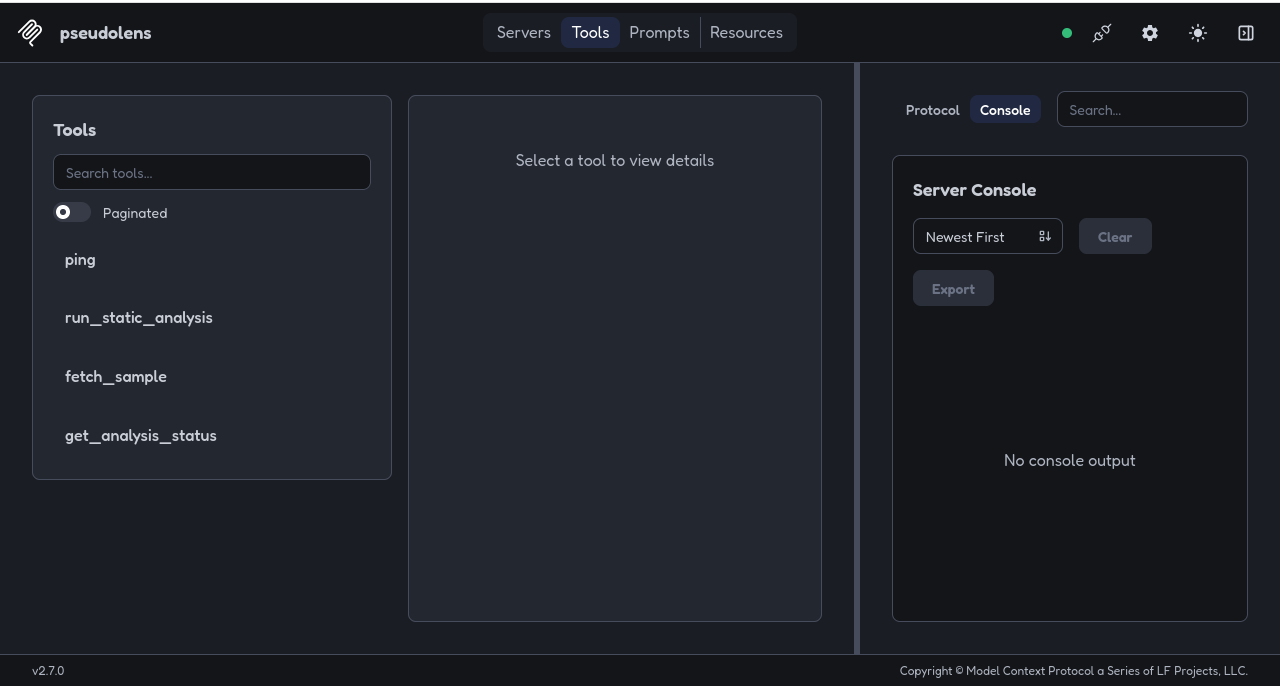
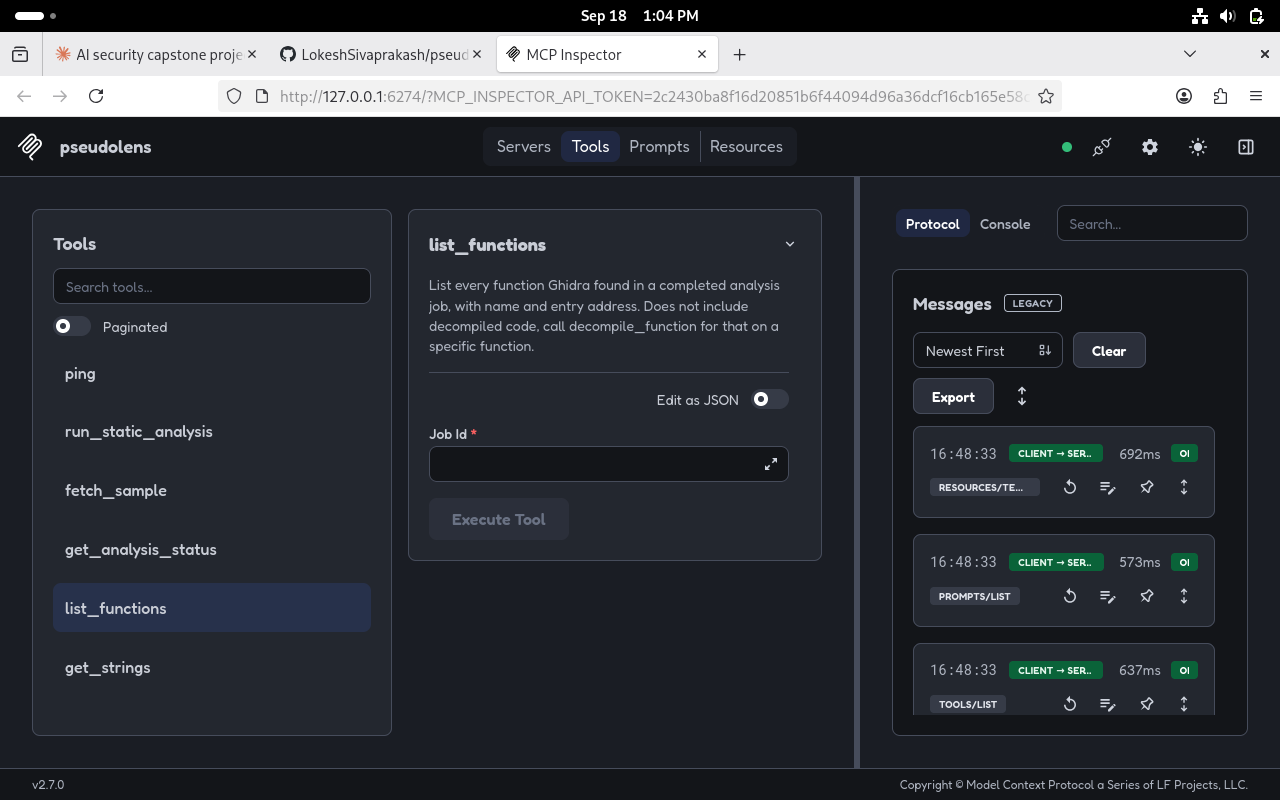
Add persistent findings database with MITRE ATT&CK tagging
Adds tag_mitre_technique and get_findings tools backed by SQLite,
so behavior classifications are stored as structured records instead
of staying in conversation. Verified end to end against the real
clipboard-hijacker sample (T1115, Clipboard Data). Refreshed
tools-list screenshot and added search-by-api screenshot.

diff --git a/server.py b/server.py
@@ -1,10 +1,12 @@
 import json
 import re
+import sqlite3
 import threading
 import uuid
 import os
 import pyzipper
 import requests
+from datetime import datetime, timezone
 from pathlib import Path
 
 import docker
@@ -21,12 +23,40 @@ OUTPUT_DIR = str(Path.home() / "pseudolens" / "output")
 PROJECTS_DIR = str(Path.home() / "pseudolens" / "projects")
 MALWAREBAZAAR_API = "https://mb-api.abuse.ch/api/v1/"
 SAMPLES_DIR = str(Path.home() / "pseudolens" / "samples")
+DB_PATH = str(Path.home() / "pseudolens" / "findings.db")
 
 # Only allow safe characters in a function name before it ever touches a
 # shell command string. Ghidra function names are things like "entry" or
 # "FUN_180001350" so this is not a real limitation, and it closes off
 # command injection through a tool argument.
 SAFE_NAME_RE = re.compile(r"^[A-Za-z0-9_.$]+$")
+
+ALLOWED_CONFIDENCE = {"low", "medium", "high"}
+
+
+def _init_db() -> None:
+    conn = sqlite3.connect(DB_PATH)
+    try:
+        conn.execute(
+            """
+            CREATE TABLE IF NOT EXISTS findings (
+                id INTEGER PRIMARY KEY AUTOINCREMENT,
+                job_id TEXT NOT NULL,
+                sample_path TEXT,
+                function_name TEXT NOT NULL,
+                behavior_summary TEXT NOT NULL,
+                mitre_technique TEXT NOT NULL,
+                confidence TEXT NOT NULL,
+                created_at TEXT NOT NULL
+            )
+            """
+        )
+        conn.commit()
+    finally:
+        conn.close()
+
+
+_init_db()
 
 
 @mcp.tool()
@@ -301,6 +331,65 @@ def search_functions_by_api(job_id: str, api_name: str) -> dict:
         "functions_searched": len(cache),
         "note": "Only functions already decompiled were searched. Call decompile_function on more functions to widen coverage.",
     }
+
+
+@mcp.tool()
+def tag_mitre_technique(
+    job_id: str,
+    function_name: str,
+    mitre_technique: str,
+    behavior_summary: str,
+    confidence: str,
+) -> dict:
+    """Record a finding for a function: what it does, which MITRE ATT&CK technique it maps to (e.g. T1115 for clipboard data), and how confident the analysis is. Writes to a persistent SQLite findings database so classifications survive after this job's in-memory state is gone. confidence must be one of low, medium, high."""
+    job = jobs.get(job_id)
+    if not job:
+        return {"error": "job not found"}
+
+    if confidence not in ALLOWED_CONFIDENCE:
+        return {"error": f"confidence must be one of {sorted(ALLOWED_CONFIDENCE)}"}
+
+    sample_path = job.get("sample_id")
+    created_at = datetime.now(timezone.utc).isoformat()
+
+    conn = sqlite3.connect(DB_PATH)
+    try:
+        cur = conn.execute(
+            """
+            INSERT INTO findings
+                (job_id, sample_path, function_name, behavior_summary, mitre_technique, confidence, created_at)
+            VALUES (?, ?, ?, ?, ?, ?, ?)
+            """,
+            (job_id, sample_path, function_name, behavior_summary, mitre_technique, confidence, created_at),
+        )
+        conn.commit()
+        finding_id = cur.lastrowid
+    finally:
+        conn.close()
+
+    return {
+        "finding_id": finding_id,
+        "job_id": job_id,
+        "function_name": function_name,
+        "mitre_technique": mitre_technique,
+        "confidence": confidence,
+        "created_at": created_at,
+    }
+
+
+@mcp.tool()
+def get_findings(job_id: str) -> dict:
+    """Get every recorded finding for a job from the persistent findings database."""
+    conn = sqlite3.connect(DB_PATH)
+    try:
+        conn.row_factory = sqlite3.Row
+        rows = conn.execute(
+            "SELECT * FROM findings WHERE job_id = ? ORDER BY created_at", (job_id,)
+        ).fetchall()
+    finally:
+        conn.close()
+
+    return {"job_id": job_id, "findings": [dict(row) for row in rows]}
 
 
 if __name__ == "__main__":
